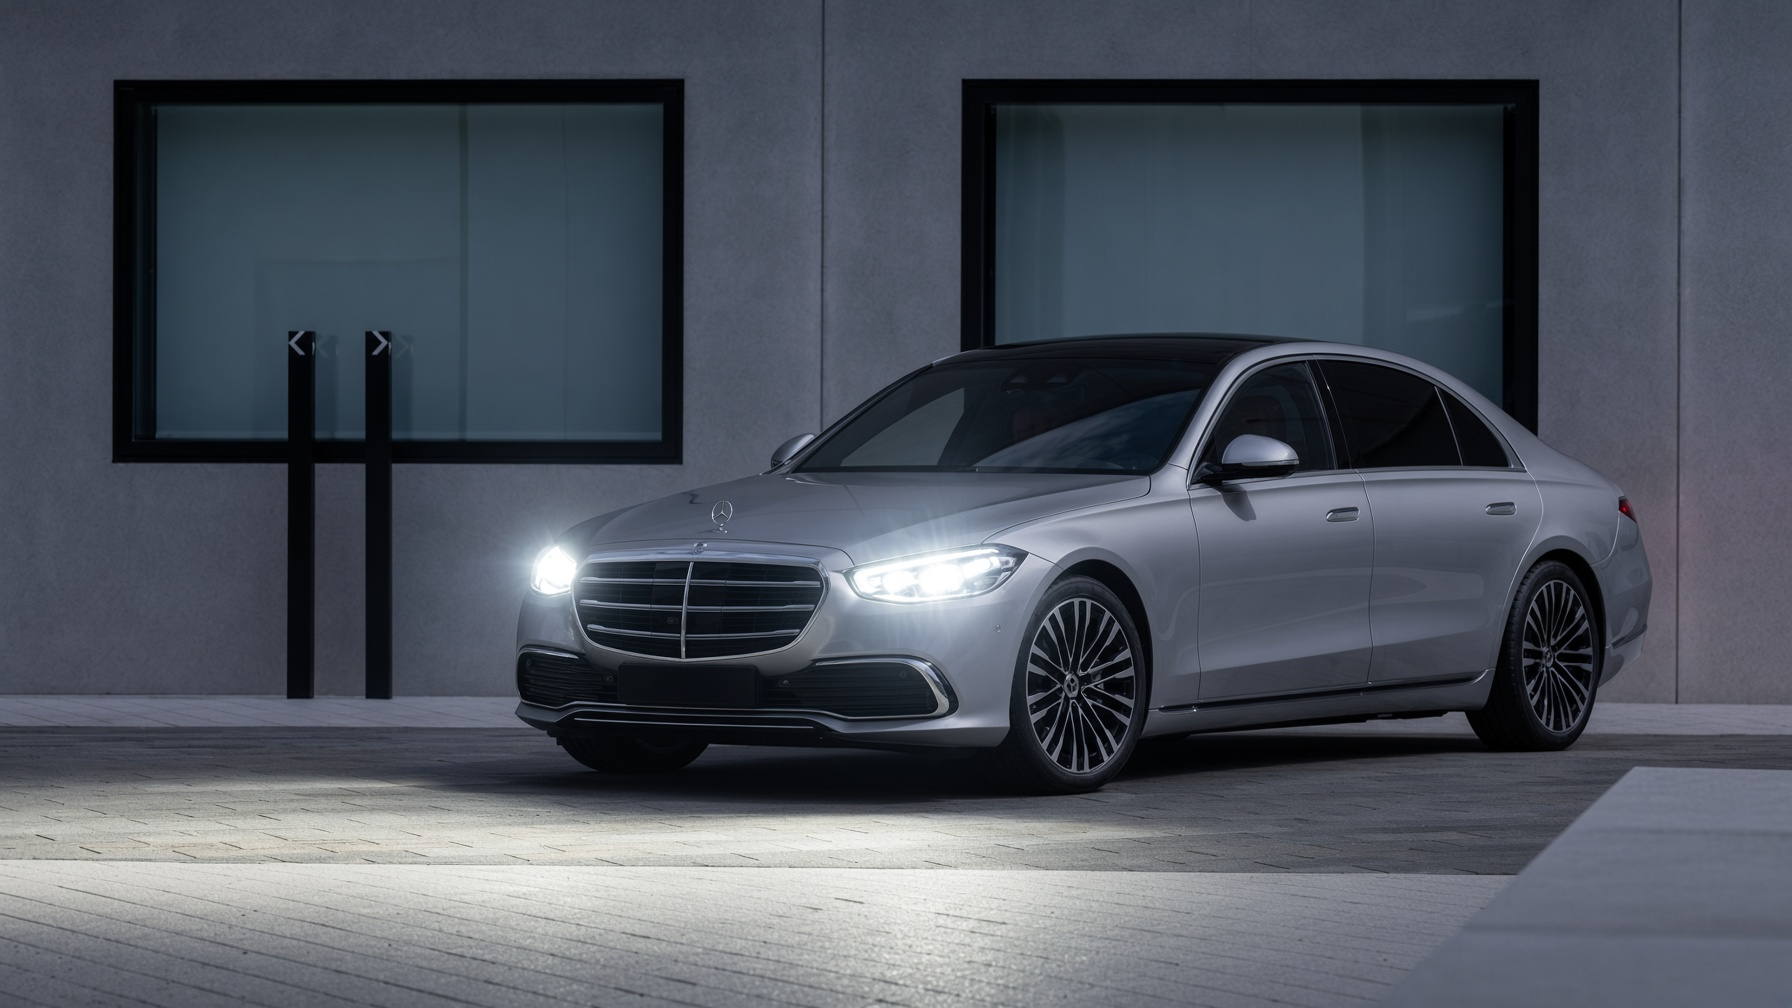
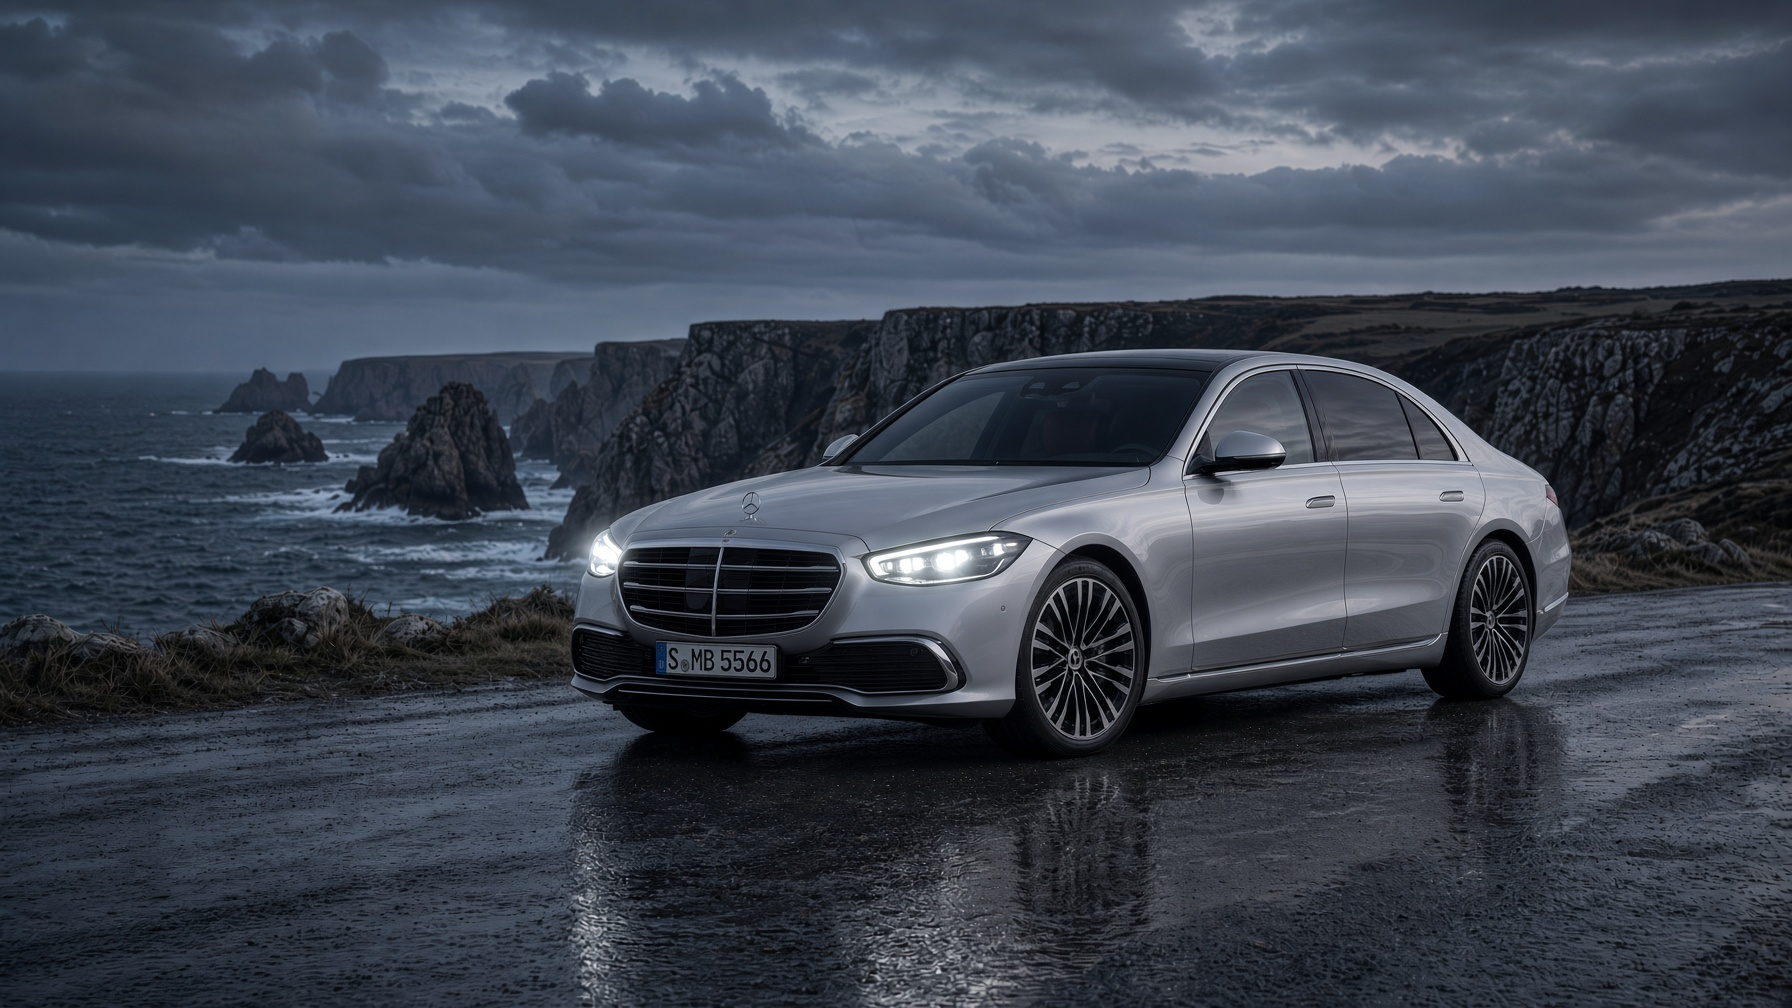
Hero : même berline sur paysage côtier, phares et bouton Contact au scroll.

diff --git a/src/components/HeroStage.tsx b/src/components/HeroStage.tsx
@@ -33,58 +33,42 @@ export function HeroStage() {
     };
   }, []);
 
-  const photo = Math.min(1, t / 0.32);
-  const contour = 1 - Math.min(1, t / 0.42);
-  const lights = Math.min(1, Math.max(0, (t - 0.16) / 0.42));
-  const glow = 0.12 + lights * 0.88;
+  const lights = Math.min(1, Math.max(0, t / 0.7));
+  const glow = 0.08 + lights * 0.92;
 
   return (
-    <section ref={wrap} className="relative h-[175vh] bg-black">
-      <div className="sticky top-0 h-dvh overflow-hidden bg-black">
+    <section ref={wrap} className="relative h-[145vh] bg-[#1a2230]">
+      <div className="sticky top-0 h-dvh overflow-hidden bg-[#1a2230]">
         <img
-          src="/images/15_hero_berline.jpg"
-          alt="Berline premium, remise comme en concession"
-          width={1400}
-          height={932}
+          src="/images/15_hero_berline.jpg?v=paysage"
+          alt="Berline premium sur la côte bretonne"
+          width={1792}
+          height={1008}
           fetchPriority="high"
           decoding="async"
-          className="absolute inset-0 h-full w-full object-cover object-[58%_62%]"
-          style={{
-            opacity: 0.22 + photo * 0.78,
-            filter: `brightness(${0.35 + photo * 0.65}) saturate(${0.2 + photo * 0.8})`,
-          }}
+          className="absolute inset-0 h-full w-full object-cover object-[58%_58%]"
         />
         <img
-          src="/images/16_hero_contour.jpg"
+          src="/images/17_hero_phares.jpg?v=paysage"
           alt=""
           width={1792}
           height={1008}
           decoding="async"
-          className="pointer-events-none absolute inset-0 h-full w-full object-contain object-center mix-blend-screen"
-          style={{ opacity: contour * 0.95 }}
-          aria-hidden
-        />
-        <img
-          src="/images/17_hero_phares.jpg"
-          alt=""
-          width={1792}
-          height={1008}
-          decoding="async"
-          className="pointer-events-none absolute inset-0 h-full w-full object-cover object-[58%_62%] mix-blend-lighten"
+          className="pointer-events-none absolute inset-0 h-full w-full object-cover object-[58%_58%]"
           style={{ opacity: lights }}
           aria-hidden
         />
         <span
-          className={`pointer-events-none absolute left-[38%] top-[54%] size-[18vw] max-h-52 max-w-52 -translate-x-1/2 -translate-y-1/2 rounded-full bg-white blur-3xl sm:left-[39%] sm:top-[55%] ${lights > 0.85 ? "hero-phare-on" : ""}`}
-          style={{ opacity: lights * 0.55, mixBlendMode: "screen" }}
+          className={`pointer-events-none absolute left-[44%] top-[54%] size-[16vw] max-h-44 max-w-44 -translate-x-1/2 -translate-y-1/2 rounded-full bg-white blur-3xl ${lights > 0.85 ? "hero-phare-on" : ""}`}
+          style={{ opacity: lights * 0.42, mixBlendMode: "screen" }}
           aria-hidden
         />
         <span
-          className={`pointer-events-none absolute left-[47%] top-[51%] size-[14vw] max-h-40 max-w-40 -translate-x-1/2 -translate-y-1/2 rounded-full bg-sky-100 blur-3xl sm:left-[48%] sm:top-[52%] ${lights > 0.85 ? "hero-phare-on" : ""}`}
-          style={{ opacity: lights * 0.45, mixBlendMode: "screen" }}
+          className={`pointer-events-none absolute left-[51%] top-[51%] size-[13vw] max-h-36 max-w-36 -translate-x-1/2 -translate-y-1/2 rounded-full bg-sky-100 blur-3xl ${lights > 0.85 ? "hero-phare-on" : ""}`}
+          style={{ opacity: lights * 0.38, mixBlendMode: "screen" }}
           aria-hidden
         />
-        <div className="absolute inset-0 bg-gradient-to-t from-black via-black/25 to-black/35" />
+        <div className="absolute inset-0 bg-gradient-to-t from-black/80 via-black/25 to-black/20" />
         <div className="relative z-10 mx-auto flex h-full max-w-6xl flex-col justify-end px-5 pb-16 pt-28 sm:px-8 sm:pb-20">
           <p className="mb-5 text-sm tracking-[0.22em] text-white/65 uppercase">
             Quimper, Bretagne, France, Europe
@@ -98,11 +82,10 @@ export function HeroStage() {
           <div className="mt-8 flex flex-col gap-3 sm:flex-row sm:flex-wrap">
             <Link
               to="/contact"
-              className="inline-flex h-14 items-center justify-center rounded-full px-8 text-sm font-semibold text-white transition-[box-shadow,background-color,transform] duration-300"
+              className="inline-flex h-14 items-center justify-center rounded-full px-8 text-sm font-semibold text-white transition-[box-shadow,background-color] duration-300"
               style={{
-                background: `rgba(0, 113, 227, ${0.35 + lights * 0.65})`,
-                boxShadow: `0 0 ${12 + lights * 42}px ${4 + lights * 18}px rgba(0, 113, 227, ${glow}), 0 0 ${40 + lights * 80}px rgba(255,255,255,${lights * 0.35})`,
-                transform: `scale(${1 + lights * 0.03})`,
+                background: `rgba(0, 113, 227, ${0.28 + lights * 0.72})`,
+                boxShadow: `0 0 ${10 + lights * 48}px ${3 + lights * 16}px rgba(0, 113, 227, ${glow}), 0 0 ${30 + lights * 70}px rgba(255,255,255,${lights * 0.28})`,
               }}
             >
               Contacter
@@ -110,18 +93,9 @@ export function HeroStage() {
             <a
               href={SITE.phoneHref}
               className="inline-flex h-14 items-center justify-center rounded-full border border-white/30 px-6 text-sm font-semibold text-white"
-              style={{
-                boxShadow: lights > 0.5 ? `0 0 24px rgba(255,255,255,${lights * 0.25})` : "none",
-              }}
             >
               {SITE.phone}
             </a>
-            <Link
-              to="/simulateur"
-              className="inline-flex h-14 items-center justify-center rounded-full border border-white/20 px-6 text-sm font-semibold text-white/90"
-            >
-              Estimer mon acheminement
-            </Link>
           </div>
         </div>
       </div>
